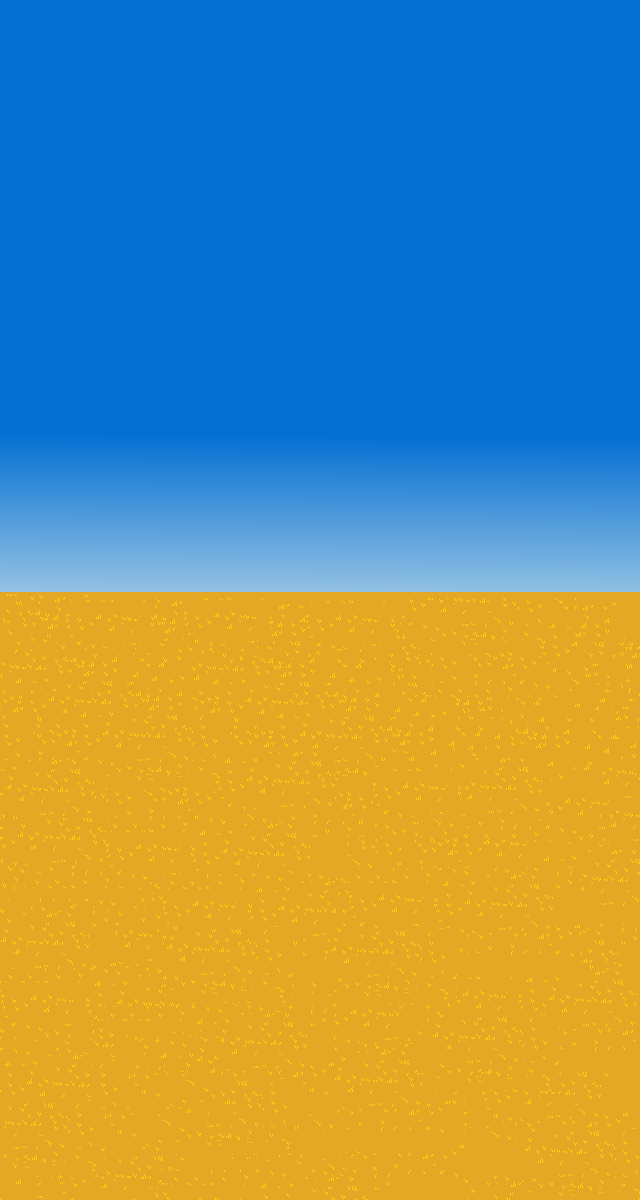
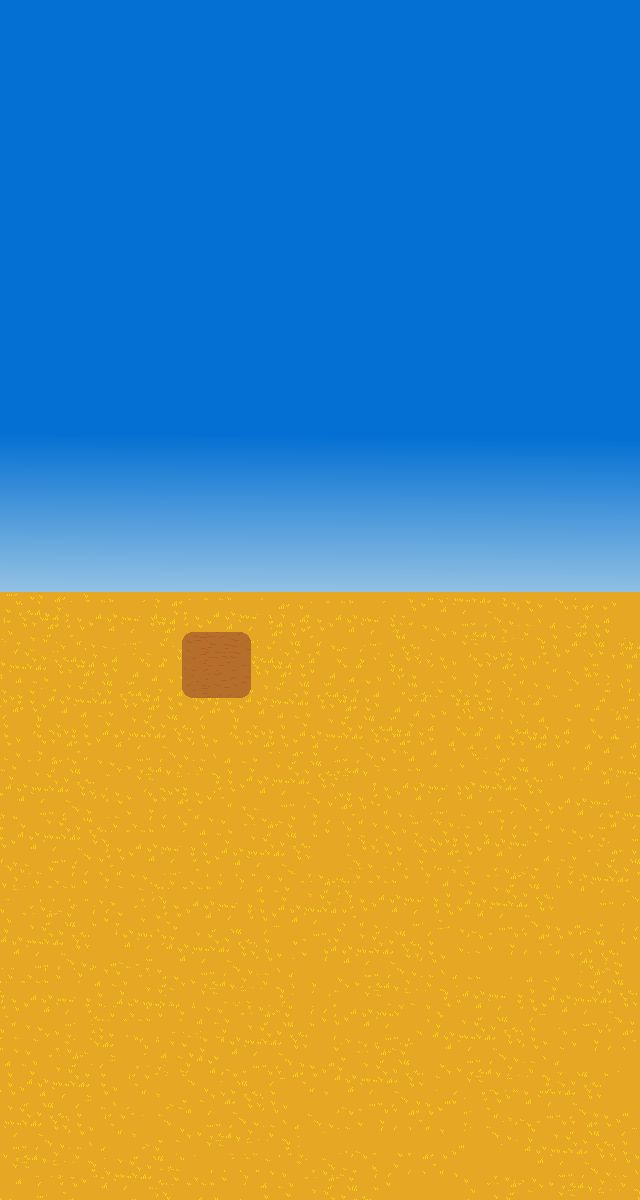
Added sun to FarmScene

Changed region(s): [[0.2812, 0.5242, 0.4062, 0.5858]]

diff --git a/js/farmScene.js b/js/farmScene.js
@@ -14,6 +14,7 @@ export default class FarmScene extends Phaser.Scene {
         this.load.image('fence', '../assets/fence.png');
         this.load.spritesheet('farmhouseSpritesheet', '../assets/farmhouse-animation.png', { frameWidth: 80, frameHeight: 128 });
         this.load.image('market', '../assets/market.png');
+        this.load.image('sun', '../assets/sun.png');
 
         this.load.image('cloud1', '../assets/clouds/cloud1.png');
         this.load.image('cloud2', '../assets/clouds/cloud2.png');
@@ -27,6 +28,8 @@ export default class FarmScene extends Phaser.Scene {
         this.add.image(320, 600, 'farmBackground').setDepth(-2);
 
         this.add.image(320, 570, 'mountains')
+
+        this.add.image(320, 490, 'sun');
 
         this.clouds = [];
         this.cloudImages = ['cloud1', 'cloud2', 'cloud3', 'cloud4', 'cloud5', 'cloud6'];
